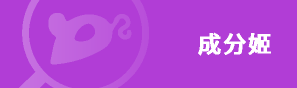
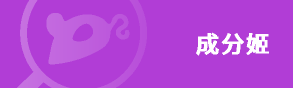
<Style> 统一导航栏图标宽高比例；

diff --git a/src/layout/navPc.vue b/src/layout/navPc.vue
@@ -158,18 +158,25 @@ export default {
     flex-direction: column;
     background-color: black;
     overflow: hidden;
+    
   };
   .nav-long {
-    width: 20vw;
+    width: 37vh;
+    max-width: 370px;
+    min-width: 185px;
   }
   .nav-short {
-    width: 10vw;
+    width: 18.5vh;
+    max-width: 185px;
+    min-width: 92.5px
   }
 
 // 导航栏item 
   .nav-item-common{
       margin-bottom: 1px;
       height: 11.1vh;
+      max-height: 222px;
+      min-height: 55.5px;
       display: flex;
       width: 100%;
       position: relative;
